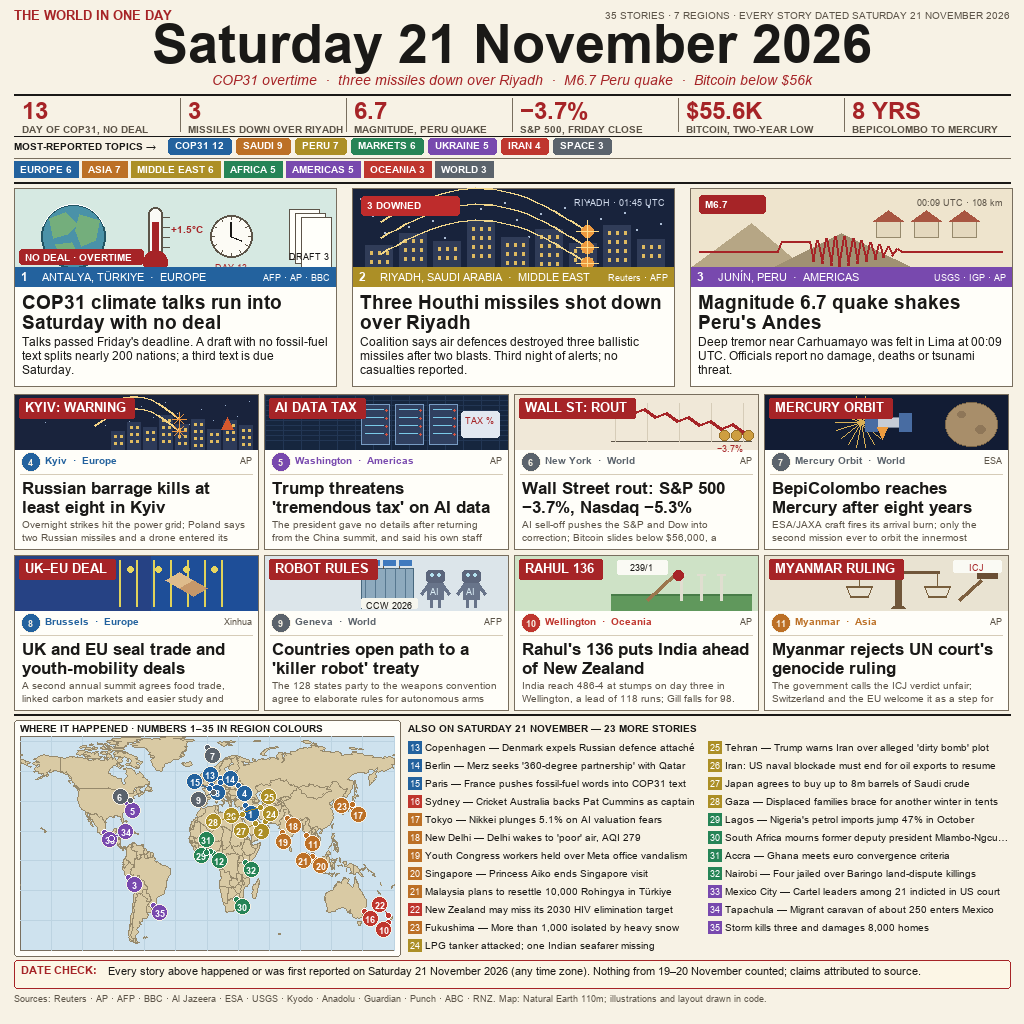
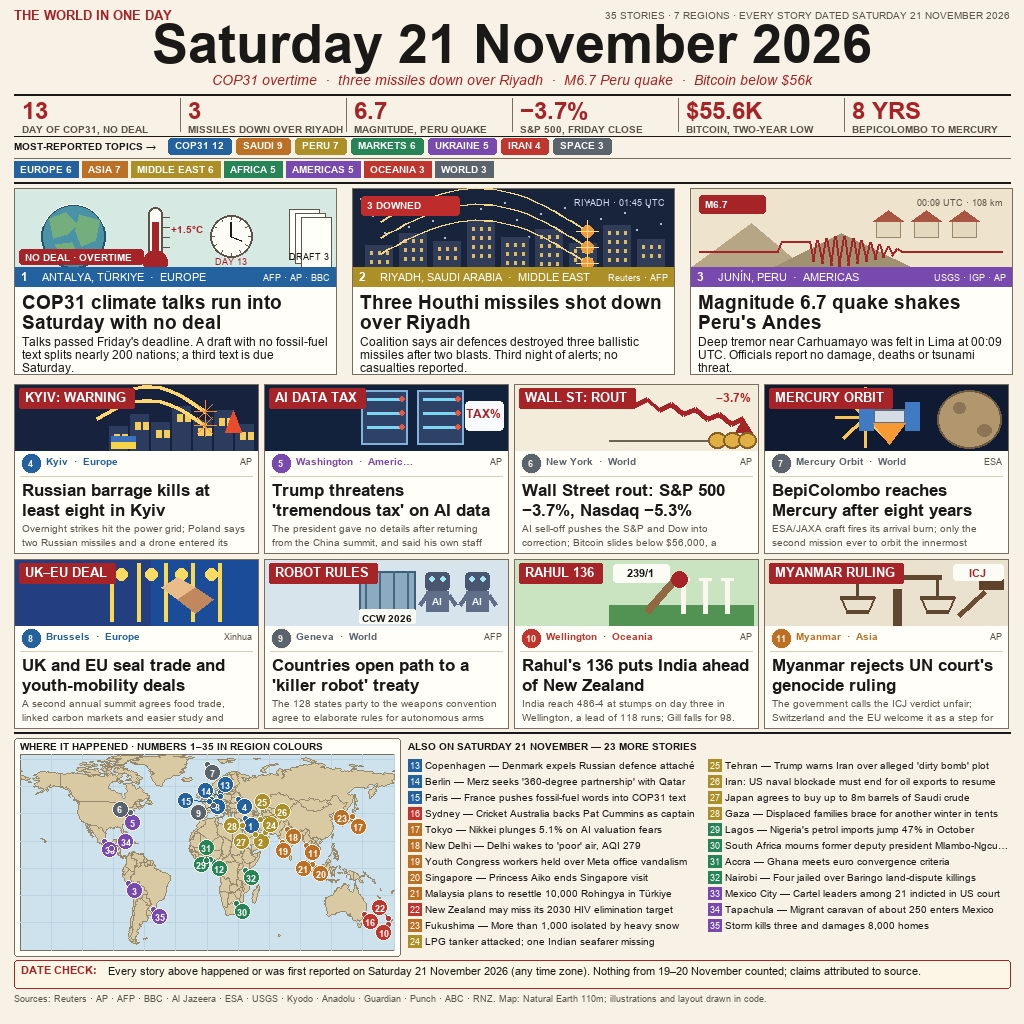
Bold high-contrast illustrations for small cards at 300px

Changed region(s): [[0.0, 0.3438, 1.0, 0.9375]]

diff --git a/draw.py b/draw.py
@@ -225,7 +225,7 @@ def ill_globe(d, x, y, w, h):
         d.line([ox + 17 * math.sin(a), oy - 17 * math.cos(a), ox + 20 * math.sin(a), oy - 20 * math.cos(a)], fill=MUTED)
     d.line([ox, oy, ox, oy - 14], fill=INK, width=2)
     d.line([ox, oy, ox + 10, oy + 4], fill=INK, width=2)
-    text(d, (ox, oy + orr + 5), "DAY 13", F_MICRO, RED, "ma")
+    text(d, (ox, oy + orr - 1), "DAY 13", F_MICRO, RED, "ma")
     # draft papers
     px = x + 274
     for k in (0, 1, 2):
@@ -417,6 +417,109 @@ def ill_wide(d, x, y, w, h, kind):
         d.rectangle([X(212), Y(12), X(232), Y(22)], fill=(106, 78, 52))
         rrect(d, [X(188), Y(4), X(236), Y(16)], 2, fill=(250, 250, 244))
         text(d, (X(212), Y(6)), "ICJ", F_MICRO, RED, "ma")
+def ill_bold(d, x, y, w, h, kind):
+    """High-contrast, large-shape illustrations that survive a 300 px preview."""
+    def X(u): return x + u * w / 242.0
+    def Y(v): return y + v * h / 66.0
+    if kind == "fire":
+        d.rectangle([x, y, x + w, y + h], fill=(22, 34, 62))
+        for k, hh in enumerate((24, 36, 28, 44, 30, 40, 26)):
+            bx = X(94 + k * 21)
+            d.rectangle([bx, Y(66 - hh), bx + X(18) - X(0), Y(66)], fill=(44, 60, 94))
+            for j in range(2):
+                d.rectangle([bx + 5 + j * 8, Y(66 - hh + 8), bx + 10 + j * 8, Y(66 - hh + 15)],
+                            fill=(246, 204, 92))
+        for off in (0, 14):
+            pts = [(X(82 + t * 9), Y(34 - off) - 22 * math.sin(t / 12 * math.pi) + t * 0.6)
+                   for t in range(13)]
+            d.line(pts, fill=(255, 214, 112), width=4)
+            star(d, pts[-1][0], pts[-1][1], 11, (244, 138, 50))
+        d.polygon([(X(210), Y(48)), (X(218), Y(26)), (X(226), Y(48))], fill=(232, 76, 44))
+        d.rectangle([X(96), Y(52), X(120), Y(64)], fill=(60, 112, 186))
+        d.rectangle([X(96), Y(58), X(120), Y(64)], fill=(248, 212, 72))
+    elif kind == "AI":
+        d.rectangle([x, y, x + w, y + h], fill=(18, 34, 60))
+        for k in range(2):
+            bx = X(96 + k * 56)
+            d.rectangle([bx, Y(6), bx + X(46) - X(0), Y(60)], fill=(46, 66, 104), outline=(128, 178, 220), width=2)
+            for j in range(3):
+                d.line([bx + 6, Y(15 + j * 14), bx + 38, Y(15 + j * 14)], fill=(124, 214, 244), width=3)
+                d.ellipse([bx + 38, Y(12 + j * 14), bx + 43, Y(17 + j * 14)], fill=(238, 84, 62))
+        rrect(d, [X(200), Y(16), X(238), Y(46)], 4, fill=(248, 250, 252))
+        text(d, (X(219), Y(22)), "TAX%", font(12, True), RED, "ma")
+    elif kind == "chart":
+        d.rectangle([x, y, x + w, y + h], fill=(244, 236, 218))
+        d.line([X(94), Y(56), X(238), Y(56)], fill=(110, 100, 86), width=2)
+        pts = [(X(96 + k * 12), Y(12 + 2.4 * k + ((-1) ** k) * 4)) for k in range(12)]
+        d.line(pts, fill=RED, width=5)
+        d.polygon([pts[-1], (X(238), Y(50)), (X(220), Y(48))], fill=RED)
+        text(d, (X(236), Y(6)), "−3.7%", font(12, True), RED, "ra")
+        for k in range(3):
+            cx = X(202 + k * 15)
+            d.ellipse([cx - 9, Y(48), cx + 9, Y(64)], fill=(224, 176, 68), outline=(132, 96, 36), width=2)
+    elif kind == "planet":
+        d.rectangle([x, y, x + w, y + h], fill=(16, 26, 50))
+        for k in range(8):
+            a = k * math.pi / 4
+            d.line([X(100), Y(33), X(100 + 30 * math.cos(a)), Y(33 + 30 * math.sin(a))],
+                   fill=(250, 196, 84), width=3)
+        d.ellipse([X(172), Y(6), X(236), Y(64)], fill=(178, 150, 110), outline=(110, 90, 64), width=2)
+        d.ellipse([X(188), Y(18), X(200), Y(29)], fill=(140, 116, 84))
+        d.ellipse([X(212), Y(40), X(226), Y(52)], fill=(140, 116, 84))
+        d.rectangle([X(108), Y(25), X(140), Y(39)], fill=(214, 220, 230), outline=(92, 106, 130), width=2)
+        d.rectangle([X(94), Y(18), X(108), Y(46)], fill=(64, 122, 194))
+        d.rectangle([X(140), Y(18), X(154), Y(46)], fill=(64, 122, 194))
+        d.polygon([(X(108), Y(39)), (X(140), Y(39)), (X(124), Y(60))], fill=(248, 154, 52))
+    elif kind == "deal":
+        d.rectangle([x, y, x + X(121), y + h], fill=(36, 62, 130))
+        d.rectangle([x + X(121), y, x + w, y + h], fill=(26, 76, 154))
+        for k in range(5):
+            d.line([X(96 + k * 27), Y(4), X(96 + k * 27), Y(62)], fill=(250, 216, 84), width=4)
+        for k in range(4):
+            d.ellipse([X(100 + k * 30), Y(9), X(112 + k * 30), Y(21)], fill=(250, 220, 96))
+        d.polygon([(X(146), Y(28)), (X(162), Y(18)), (X(180), Y(28)), (X(162), Y(40))], fill=(234, 188, 138))
+        d.polygon([(X(162), Y(40)), (X(180), Y(28)), (X(198), Y(40)), (X(180), Y(54))], fill=(192, 136, 92))
+    elif kind == "robot":
+        d.rectangle([x, y, x + w, y + h], fill=(216, 228, 236))
+        d.rectangle([X(94), Y(12), X(150), Y(62)], fill=(140, 170, 192), outline=(60, 96, 122), width=2)
+        for k in range(4):
+            d.line([X(100 + k * 14), Y(12), X(100 + k * 14), Y(62)], fill=(70, 104, 130), width=2)
+        for cx in (172, 212):
+            rrect(d, [X(cx - 12), Y(12), X(cx + 12), Y(30)], 4, fill=(74, 86, 112))
+            d.ellipse([X(cx - 8), Y(17), X(cx - 3), Y(22)], fill=(160, 232, 248))
+            d.ellipse([X(cx + 3), Y(17), X(cx + 8), Y(22)], fill=(160, 232, 248))
+            d.rectangle([X(cx - 11), Y(32), X(cx + 11), Y(52)], fill=(96, 110, 138))
+            text(d, (X(cx), Y(36)), "AI", font(10, True), (236, 246, 250), "ma")
+            d.line([X(cx - 11), Y(36), X(cx - 18), Y(46)], fill=(96, 110, 138), width=4)
+            d.line([X(cx + 11), Y(36), X(cx + 18), Y(46)], fill=(96, 110, 138), width=4)
+        rrect(d, [X(94), Y(50), X(150), Y(64)], 2, fill=(250, 250, 244))
+        text(d, (X(122), Y(53)), "CCW 2026", font(10, True), INK, "ma")
+    elif kind == "bat":
+        d.rectangle([x, y, x + w, y + h], fill=(202, 228, 194))
+        d.rectangle([X(94), Y(46), X(238), Y(66)], fill=(82, 146, 82))
+        for sx in (168, 190, 212):
+            d.line([X(sx), Y(54), X(sx), Y(20)], fill=(250, 248, 238), width=5)
+            d.line([X(sx - 6), Y(20), X(sx + 6), Y(20)], fill=(250, 248, 238), width=3)
+        d.line([X(132), Y(52), X(160), Y(20)], fill=(146, 104, 66), width=8)
+        d.ellipse([X(156), Y(12), X(172), Y(28)], fill=RED)
+        rrect(d, [X(98), Y(4), X(154), Y(22)], 3, fill=(252, 252, 246))
+        text(d, (X(126), Y(7)), "239/1", font(11, True), INK, "ma")
+    else:
+        d.rectangle([x, y, x + w, y + h], fill=(234, 226, 206))
+        d.rectangle([X(128), Y(30), X(136), Y(66)], fill=(96, 72, 48))
+        d.line([X(88), Y(18), X(176), Y(18)], fill=(96, 72, 48), width=5)
+        d.ellipse([X(128), Y(12), X(136), Y(24)], fill=(226, 180, 64), outline=(96, 72, 48), width=2)
+        for px in (92, 172):
+            d.line([X(px), Y(19), X(px), Y(38)], fill=(96, 72, 48), width=3)
+            d.line([X(px - 17), Y(38), X(px + 17), Y(38)], fill=(96, 72, 48), width=4)
+            d.line([X(px - 17), Y(38), X(px - 11), Y(52)], fill=(96, 72, 48), width=2)
+            d.line([X(px + 17), Y(38), X(px + 11), Y(52)], fill=(96, 72, 48), width=2)
+            d.line([X(px - 11), Y(52), X(px + 11), Y(52)], fill=(96, 72, 48), width=4)
+        d.line([X(194), Y(56), X(220), Y(32)], fill=(110, 78, 50), width=6)
+        d.rectangle([X(214), Y(16), X(238), Y(30)], fill=(96, 66, 44))
+        rrect(d, [X(188), Y(4), X(238), Y(20)], 3, fill=(252, 252, 246))
+        text(d, (X(213), Y(7)), "ICJ", font(11, True), RED, "ma")
+
 def ill_mini(d, x, y, w, h, kind, col):
     """A larger, detailed drawing scaled to the card's illustration band."""
     d.rectangle([x, y, x + w, y + h], fill=(235, 230, 214))
@@ -566,7 +669,7 @@ def build():
         s = STORIES[i]
         x = 14 + i * 338
         y = 188
-        w, h = 322, 198
+        w, h = 322, 186
         d.rectangle([x, y, x + w, y + h], fill=(255, 254, 249), outline=HAIR, width=1)
         ills[i](d, x + 1, y + 1, w - 2, 78)
         d.rectangle([x + 1, y + 79, x + w - 1, y + 98], fill=RCOL[s[1]])
@@ -575,7 +678,7 @@ def build():
         text(d, (x + 28, y + 83), place, F_SMALL, (255, 255, 255))
         text(d, (x + w - 6, y + 84), s[5], F_MICRO, (255, 255, 255), "ra")
         yy = lines(d, (x + 8, y + 103), s[3], F_CARD, w - 16, 20, INK, 2)
-        lines(d, (x + 8, yy + 4), s[4], F_BODY, w - 16, 14, INK, 3)
+        lines(d, (x + 8, yy + 4), s[4], F_BODY, w - 16, 13, INK, 3)
 
     # eight small cards, styled like the leading entries: large illustration with a
     # bold red label, a numbered topic line, a big headline and a short body.
@@ -583,35 +686,35 @@ def build():
         s = STORIES[3 + i]
         row, col = divmod(i, 4)
         x = 14 + col * 250
-        y = 394 + row * 161
-        w, h = 244, 155
+        y = 384 + row * 175
+        w, h = 244, 169
         d.rectangle([x, y, x + w, y + h], fill=(255, 254, 249), outline=HAIR, width=1)
-        d.rectangle([x + 1, y + 1, x + w - 1, y + 55], fill=(234, 230, 214))
-        ill_wide(d, x + 1, y + 1, w - 2, 54, MINI[i])
+        d.rectangle([x + 1, y + 1, x + w - 1, y + 66], fill=(234, 230, 214))
+        ill_bold(d, x + 1, y + 1, w - 2, 65, MINI[i])
         tag = SMALL_TAGS[i]
         tw = d.textlength(tag, font=F_ISS) + 14
         rrect(d, [x + 5, y + 4, x + 5 + tw, y + 24], 2, fill=RED)
         text(d, (x + 11, y + 6), tag, F_ISS, (255, 255, 255))
         # numbered topic line
-        badge(d, x + 7, y + 58, s[0], s[1], 19)
+        badge(d, x + 7, y + 69, s[0], s[1], 20)
         topic = s[2].split(",")[0].title() + "  ·  " + s[1].title()
-        text(d, (x + 31, y + 60), fit(d, topic, F_TAG, w - 125), F_TAG, RCOL[s[1]])
-        text(d, (x + w - 6, y + 61), s[5].split(" · ")[0], F_MICRO, MUTED, "ra")
-        d.line([x + 6, y + 80, x + w - 6, y + 80], fill=(214, 204, 184), width=1)
-        lines(d, (x + 8, y + 84), s[3], F_CARD2, w - 16, 19, INK, 2)
-        lines(d, (x + 8, y + 124), s[4], F_TINY, w - 16, 13, MUTED, 2)
+        text(d, (x + 32, y + 71), fit(d, topic, F_TAG, w - 126), F_TAG, RCOL[s[1]])
+        text(d, (x + w - 6, y + 72), s[5].split(" · ")[0], F_MICRO, MUTED, "ra")
+        d.line([x + 6, y + 92, x + w - 6, y + 92], fill=(214, 204, 184), width=1)
+        lines(d, (x + 8, y + 96), s[3], F_CARD2, w - 16, 20, INK, 2)
+        lines(d, (x + 8, y + 138), s[4], F_TINY, w - 16, 14, MUTED, 2)
 
     # bottom: map left, story list right
-    d.line([14, 714, W - 14, 714], fill=INK, width=2)
-    rrect(d, [14, 720, 400, 956], 3, fill=(255, 254, 249), outline=HAIR)
-    text(d, (20, 722), "WHERE IT HAPPENED · NUMBERS 1–35 IN REGION COLOURS", F_LABEL, INK)
-    draw_map(d, 20, 736, 374, 214)
+    d.line([14, 732, W - 14, 732], fill=INK, width=2)
+    rrect(d, [14, 738, 400, 956], 3, fill=(255, 254, 249), outline=HAIR)
+    text(d, (20, 740), "WHERE IT HAPPENED · NUMBERS 1–35 IN REGION COLOURS", F_LABEL, INK)
+    draw_map(d, 20, 754, 374, 196)
 
-    text(d, (408, 722), "ALSO ON SATURDAY 21 NOVEMBER — 23 MORE STORIES", F_LABEL, INK)
+    text(d, (408, 740), "ALSO ON SATURDAY 21 NOVEMBER — 23 MORE STORIES", F_LABEL, INK)
     for idx, s in enumerate(STORIES[12:]):
         col, row = divmod(idx, 12)
         x = 408 + col * 300
-        y = 740 + row * 18
+        y = 758 + row * 16
         d.rectangle([x, y + 1, x + 13, y + 13], fill=RCOL[s[1]])
         text(d, (x + 6.5, y + 7), str(s[0]), F_MICRO, (255, 255, 255), "mm")
         label = s[3]

diff --git a/verify.py b/verify.py
@@ -28,15 +28,15 @@ print("  every story has a headline, a detail line and a named source OK")
 preview = os.path.join(os.path.dirname(here), "check21")
 os.makedirs(preview, exist_ok=True)
 im.resize((300, 300), Image.LANCZOS).save(os.path.join(preview, "preview300.png"))
-im.crop((10, 184, 335, 390)).resize((975, 618)).save(os.path.join(preview, "crop_main.png"))
-im.crop((14, 390, 1010, 714)).resize((1992, 648)).save(os.path.join(preview, "crop_smallcards.png"))
-im.crop((14, 718, 402, 958)).resize((1164, 720)).save(os.path.join(preview, "crop_map.png"))
-im.crop((400, 718, 1015, 956)).resize((1230, 476)).save(os.path.join(preview, "crop_list.png"))
+im.crop((10, 184, 335, 378)).resize((975, 582)).save(os.path.join(preview, "crop_main.png"))
+im.crop((14, 380, 1010, 732)).resize((1992, 704)).save(os.path.join(preview, "crop_smallcards.png"))
+im.crop((14, 736, 402, 958)).resize((1164, 666)).save(os.path.join(preview, "crop_map.png"))
+im.crop((400, 736, 1015, 956)).resize((1230, 440)).save(os.path.join(preview, "crop_list.png"))
 print("CHECK 2 previews written OK")
 
 # map label separation: each label centre must be > 16 px from every other
 import math
-sx, sy, mw, mh = 20, 736, 374, 214
+sx, sy, mw, mh = 20, 754, 374, 196
 def proj(lon, lat):
     return (sx + (lon + 180) / 360.0 * mw, sy + (84.0 - lat) / 144.0 * mh)
 used = []
